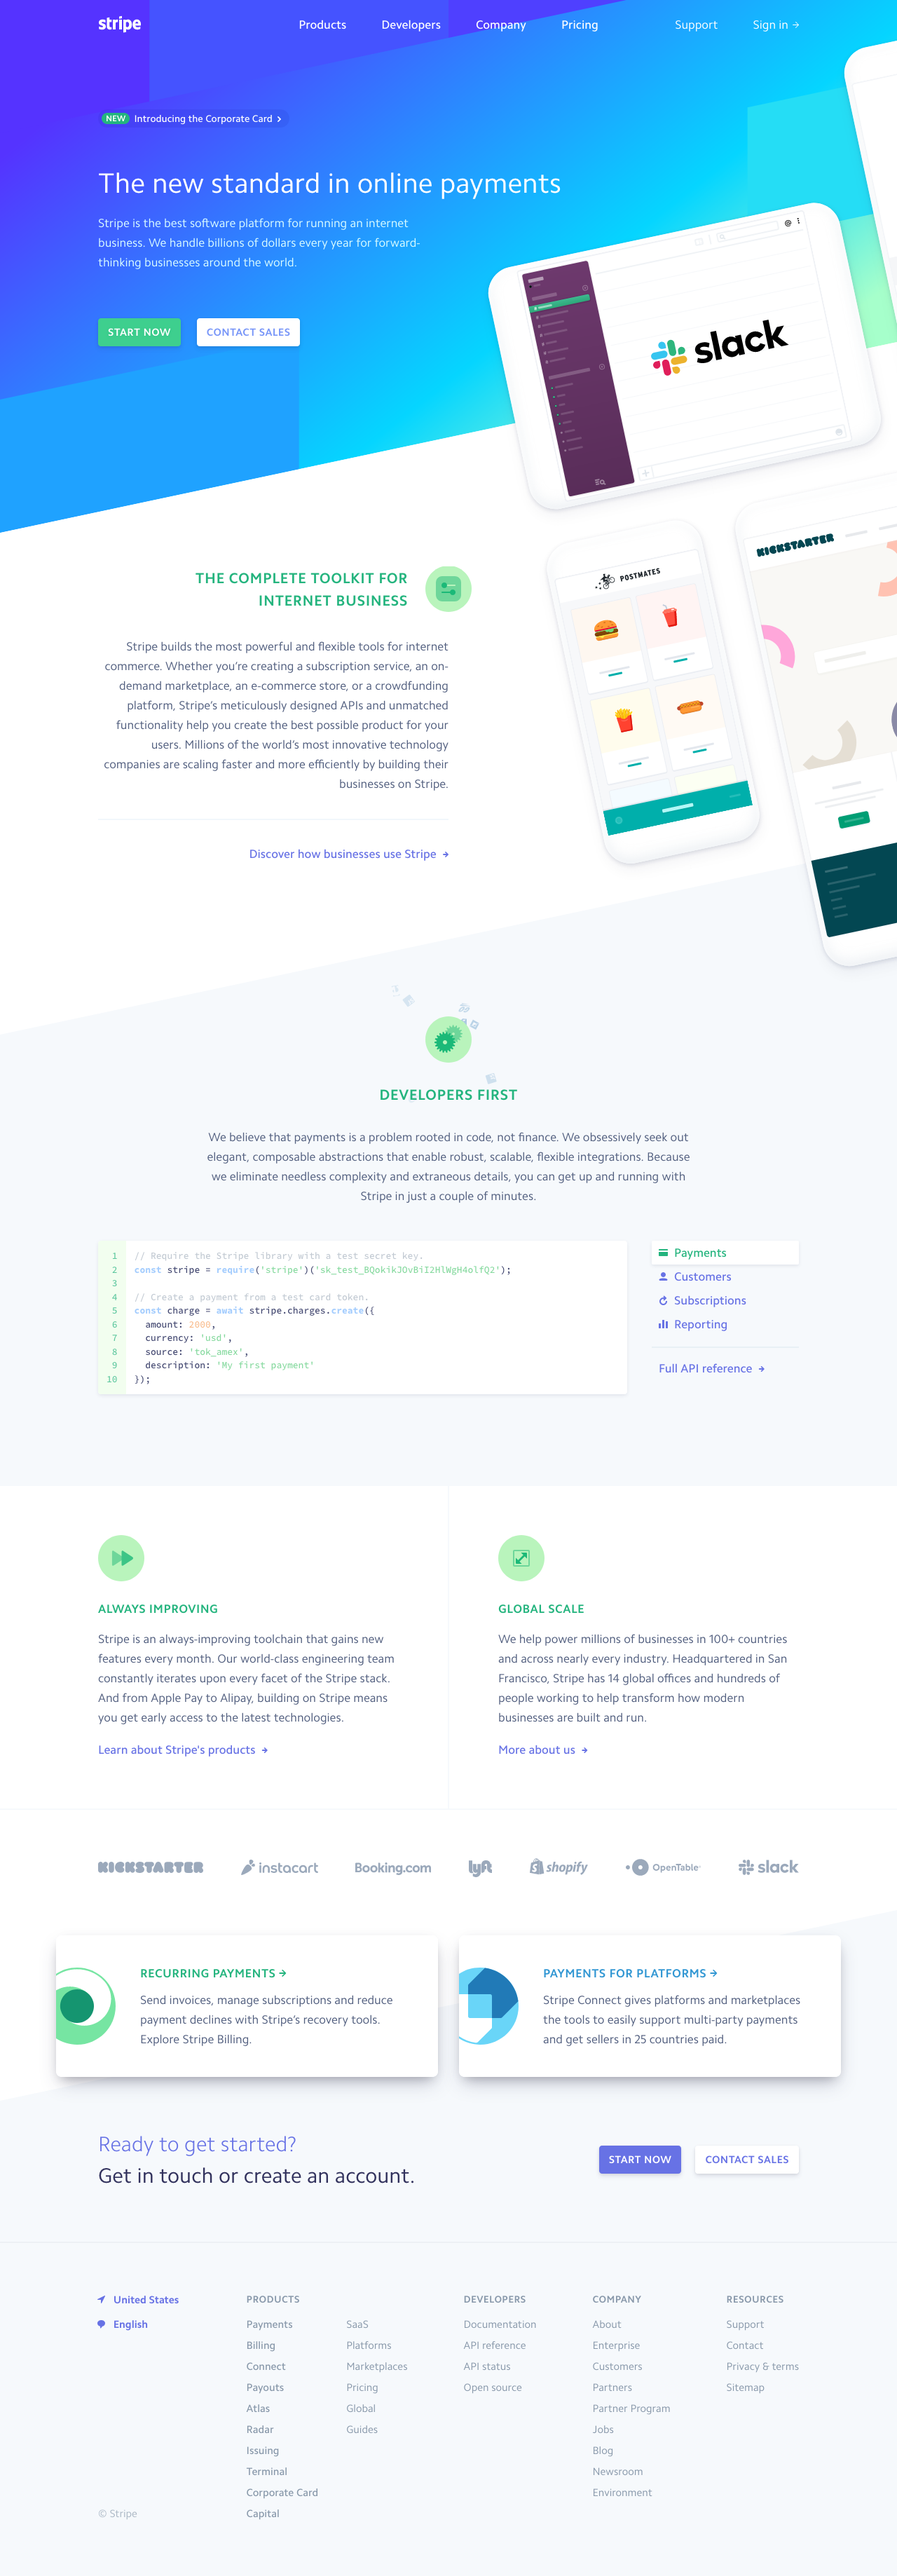
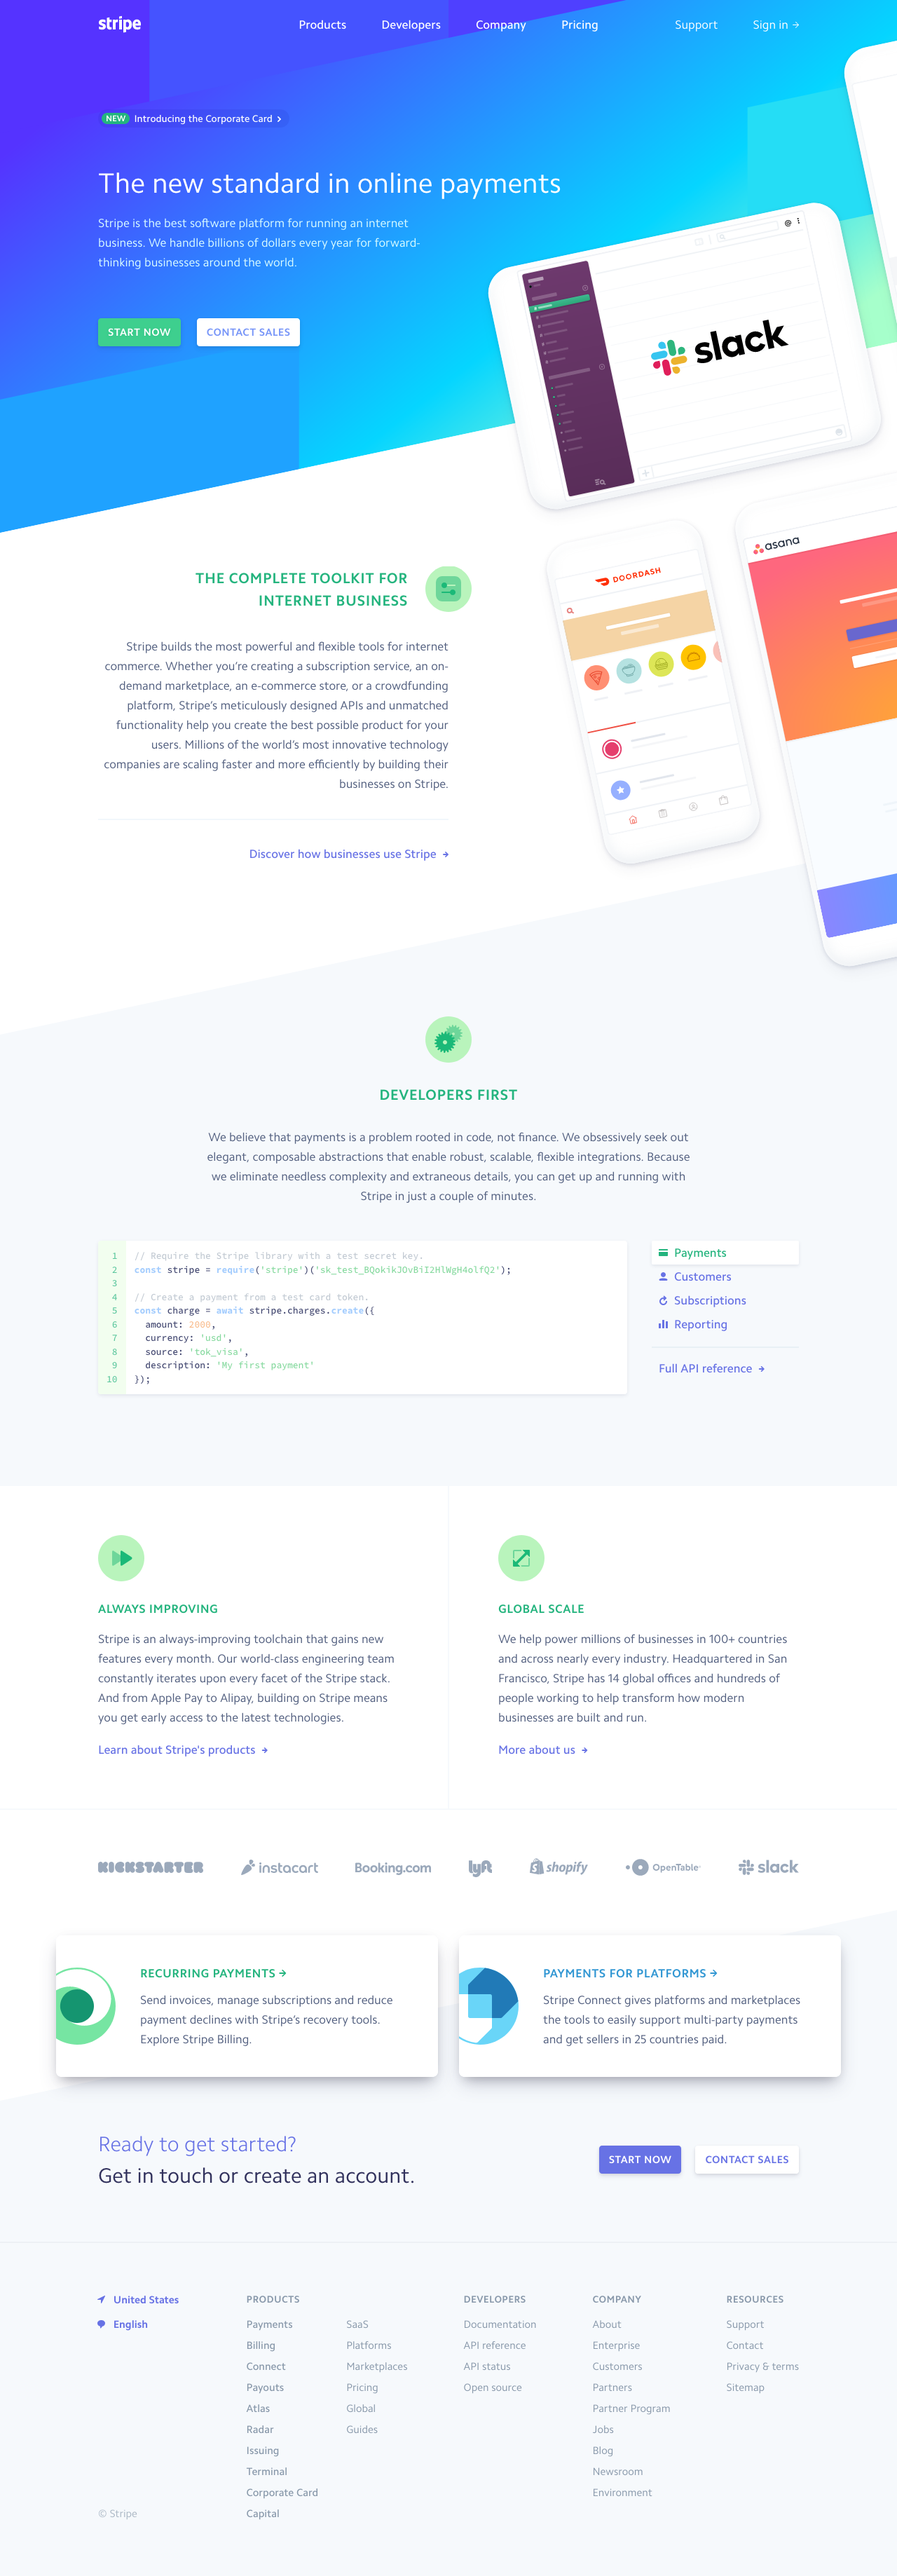
fixing lazy loading issue

Changed region(s): [[0.8438, 0.1861, 1.0, 0.3722], [0.625, 0.2171, 0.8438, 0.3412]]

diff --git a/screenshot/sites.py b/screenshot/sites.py
@@ -1,33 +1,34 @@
 sites = [
-    {"name": "lewagon", "url": "https://www.lewagon.com"},
-    {"name": "evercheck", "url": "https://evercheck.com"},
-    {"name": "evolt", "url": "https://evolt.io"},
-    {"name": "uscreen-leadzen", "url": "https://uscreen.tv/leadzen"},
-    {"name": "generated", "url": "https://generated.photos"},
-    {"name": "quokka", "url": "https://quokka.io"},
-    {"name": "supercast", "url": "https://supercast.com"},
-    {"name": "upcut", "url": "https://upcutstudio.com"},
-    {"name": "liramail", "url": "https://liramail.com"},
-    {"name": "webflow", "url": "https://webflow.com"},
-    {"name": "envoyer", "url": "https://envoyer.io"},
-    {"name": "sizzy", "url": "https://sizzy.co"},
-    {"name": "forge", "url": "https://forge.laravel.com"},
-    {"name": "vapor", "url": "https://vapor.laravel.com"},
-    {"name": "nova", "url": "https://nova.laravel.com"},
-    {"name": "todoist", "url": "https://todoist.com"},
-    {"name": "wire", "url": "https://wire.com"},
-    {"name": "wake", "url": "https://wake.com"},
-    {"name": "glyph", "url": "https://glyph.pro"},
-    {"name": "stripe-connect", "url": "https://stripe.com/connect"},
-    {"name": "slack", "url": "https://slack.com"},
-    {"name": "makeitinua", "url": "https://makeitinua.com"},
-    {"name": "pitch", "url": "https://pitch.com"},
-    {"name": "stripe", "url": "https://stripe.com"},
-    {"name": "designcode", "url": "https://designcode.io"},
-    {"name": "atlassian", "url": "https://atlassian.com"},
-    {"name": "forestadmin", "url": "https://forestadmin.com"},
-    {"name": "lattice", "url": "https://lattice.com"},
-    {"name": "stripe-atlas", "url": "https://stripe.com/atlas"},
-    {"name": "evrybo", "url": "https://evrybo.com"},
-    {"name": "lobe", "url": "https://lobe.ai"},
+    {"name": "airbnb", "url": "https://www.airbnb.com"}
+    # {"name": "lewagon", "url": "https://www.lewagon.com"},
+    # {"name": "evercheck", "url": "https://evercheck.com"},
+    # {"name": "evolt", "url": "https://evolt.io"},
+    # {"name": "uscreen-leadzen", "url": "https://uscreen.tv/leadzen"},
+    # {"name": "generated", "url": "https://generated.photos"},
+    # {"name": "quokka", "url": "https://quokka.io"},
+    # {"name": "supercast", "url": "https://supercast.com"},
+    # {"name": "upcut", "url": "https://upcutstudio.com"},
+    # {"name": "liramail", "url": "https://liramail.com"},
+    # {"name": "webflow", "url": "https://webflow.com"},
+    # {"name": "envoyer", "url": "https://envoyer.io"},
+    # {"name": "sizzy", "url": "https://sizzy.co"},
+    # {"name": "forge", "url": "https://forge.laravel.com"},
+    # {"name": "vapor", "url": "https://vapor.laravel.com"},
+    # {"name": "nova", "url": "https://nova.laravel.com"},
+    # {"name": "todoist", "url": "https://todoist.com"},
+    # {"name": "wire", "url": "https://wire.com"},
+    # {"name": "wake", "url": "https://wake.com"},
+    # {"name": "glyph", "url": "https://glyph.pro"},
+    # {"name": "stripe-connect", "url": "https://stripe.com/connect"},
+    # {"name": "slack", "url": "https://slack.com"},
+    # {"name": "makeitinua", "url": "https://makeitinua.com"},
+    # {"name": "pitch", "url": "https://pitch.com"},
+    # {"name": "stripe", "url": "https://stripe.com"},
+    # {"name": "designcode", "url": "https://designcode.io"},
+    # {"name": "atlassian", "url": "https://atlassian.com"},
+    # {"name": "forestadmin", "url": "https://forestadmin.com"},
+    # {"name": "lattice", "url": "https://lattice.com"},
+    # {"name": "stripe-atlas", "url": "https://stripe.com/atlas"},
+    # {"name": "evrybo", "url": "https://evrybo.com"},
+    # {"name": "lobe", "url": "https://lobe.ai"},
 ]

diff --git a/screenshot/main.py b/screenshot/main.py
@@ -1,13 +1,39 @@
 from sites import sites
 from config import driver
+import time
+from datetime import datetime
+startTime = datetime.now()
+
+SCROLL_PAUSE_TIME = 15.0
+
+# Get scroll height
 
 for site in sites:
     print("Beginning site: ", site["name"])
     driver.get(site["url"])
-    page = driver.find_element_by_tag_name("body")
+    last_height = driver.execute_script("return document.body.scrollHeight")
+
+    while True:
+        print("Scrolling to height")
+        driver.execute_script("window.scrollTo(0, document.body.scrollHeight);")
+
+        # Wait to load page
+        time.sleep(SCROLL_PAUSE_TIME)
+
+        # Calculate new scroll height and compare with last scroll height
+        new_height = driver.execute_script("return document.body.scrollHeight")
+        if new_height == last_height:
+            break
+        last_height = new_height
+
+    driver.execute_script("window.scrollTo(0, document.body.scrollHeight")
+    time.sleep(SCROLL_PAUSE_TIME)
     filename = site["name"]
     path = f"./screenshots/{filename}.png"
+    page = driver.find_element_by_tag_name("body")
     page.screenshot(path)
     print("Finished site")
+
+print(datetime.now() - startTime)
 
 driver.quit()
